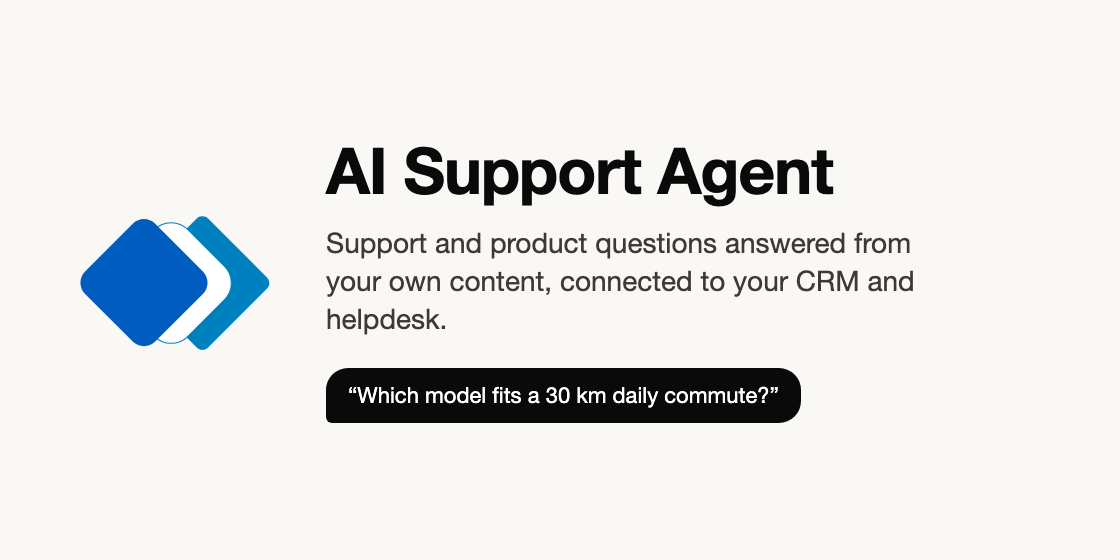
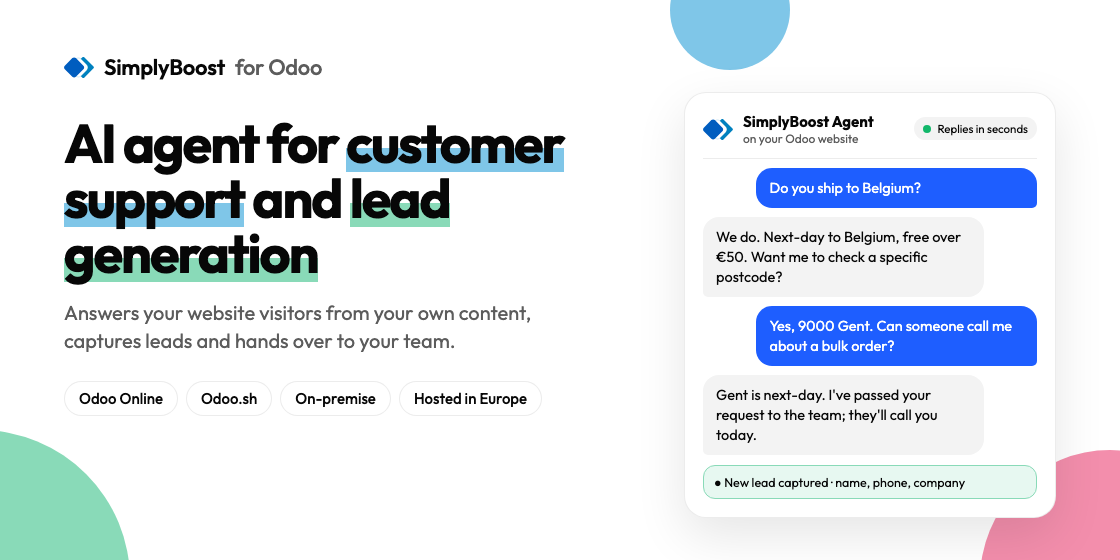
docs(integrations): Odoo Apps listing in the SimplyBoost voice, with the product video
Listing name "AI Agent: Support & Leads", a summary that leads with "AI
chatbot", and a description page built from the website's message: the four
jobs, real screenshots, setup steps, integrations, an FAQ and the data sent.
The product overview video and setup tutorial are linked (YouTube links are
the only external links the store allows); new on-brand cover. 1.2.0.

diff --git a/website_simplyboost/static/description/index.html b/website_simplyboost/static/description/index.html
@@ -1,100 +1,162 @@
 <section class="container py-5">
     <div class="row align-items-center">
         <div class="col-lg-6">
-            <h2 class="font-weight-bold mb-3">AI Support Agent</h2>
-            <p class="lead mb-3">
-                Put an AI support agent and product specialist on your Odoo website. It answers customers
-                from your own documentation and product information, hands complex cases to your team, and
-                works with the CRM and helpdesk you already use.
+            <p class="text-uppercase font-weight-bold mb-3" style="color: #5c5c5c; font-size: 13px;">AI chatbot for your Odoo website</p>
+            <h2 class="font-weight-bold mb-4" style="color: #070707; font-size: 40px;">
+                AI agent for <span style="border-bottom: 8px solid #7FC6E8;">customer support</span>
+                and <span style="border-bottom: 8px solid #89DAB8;">lead generation</span>
+            </h2>
+            <p class="lead mb-4" style="color: #5c5c5c;">
+                SimplyBoost is an AI agent that answers customer questions from your own content and captures leads.
+                This app puts it on every page of your Odoo website in two minutes, with no code.
             </p>
             <p class="mb-0">
-                The agent runs on <strong>SimplyBoost</strong>, an external service: you need a SimplyBoost
-                account with an agent set up there. This app adds that agent to the pages of your Odoo website.
+                <span class="badge badge-pill border mr-1 mb-2" style="color: #070707; font-size: 14px; padding: 8px 14px;">Odoo Online</span>
+                <span class="badge badge-pill border mr-1 mb-2" style="color: #070707; font-size: 14px; padding: 8px 14px;">Odoo.sh</span>
+                <span class="badge badge-pill border mr-1 mb-2" style="color: #070707; font-size: 14px; padding: 8px 14px;">On-premise</span>
+                <span class="badge badge-pill border mr-1 mb-2" style="color: #070707; font-size: 14px; padding: 8px 14px;">Odoo 18, 19 and 20</span>
+                <span class="badge badge-pill border mr-1 mb-2" style="color: #070707; font-size: 14px; padding: 8px 14px;">Hosted in Europe</span>
             </p>
         </div>
         <div class="col-lg-6 text-center mt-4 mt-lg-0">
-            <img src="screenshot_chat.png" class="img-fluid border rounded" alt="The agent answering a visitor on an Odoo website"/>
+            <a href="https://www.youtube.com/watch?v=HPHn23mbyUw">
+                <img src="video_overview.png" class="img-fluid rounded shadow" alt="Watch the SimplyBoost AI agent product overview video on YouTube (34 seconds)"/>
+            </a>
+            <p class="mt-2 mb-0" style="color: #5c5c5c; font-size: 14px;">
+                <a href="https://www.youtube.com/watch?v=HPHn23mbyUw" style="color: #1E5EFF;">Watch the product overview</a> (34 seconds)
+            </p>
         </div>
     </div>
 </section>
 
 <section class="container py-4">
-    <h3 class="font-weight-bold mb-2">What this app does in Odoo</h3>
-    <ul class="mb-3">
-        <li>Adds an <em>AI Support Agent</em> section to Website, Configuration, Settings.</li>
-        <li>Loads your agent on every page of the website you set it for. Each Odoo website can have its own agent, or none.</li>
-        <li>Loads nothing until you have pasted a Bot ID and agreed to send visitors' chat messages to SimplyBoost.</li>
-    </ul>
-    <img src="screenshot_settings.png" class="img-fluid border rounded" alt="AI Support Agent settings in Odoo"/>
-</section>
-
-<section class="container py-4">
-    <h3 class="font-weight-bold mb-2">What the SimplyBoost agent does</h3>
-    <p class="text-muted mb-4">Set up in your SimplyBoost account, not in Odoo.</p>
+    <h3 class="font-weight-bold mb-2" style="color: #070707;">What the agent takes off your plate</h3>
+    <p class="mb-4" style="color: #5c5c5c;">Four jobs it handles from the first day.</p>
     <div class="row">
-        <div class="col-md-6 mb-4">
-            <h5 class="font-weight-bold">Customer support</h5>
-            <p>Answers from your manuals, FAQs, policies and website pages, in the language the customer writes in.
-                When it cannot help or the customer asks for a person, your team is alerted with the conversation.</p>
+        <div class="col-md-6 col-lg-3 mb-4">
+            <div class="border rounded p-4 h-100" style="border-color: #e6e6e6;">
+                <h5 class="font-weight-bold" style="color: #070707; border-bottom: 4px solid #7FC6E8; padding-bottom: 6px;">Answers in seconds</h5>
+                <p class="mb-0" style="color: #5c5c5c;">From your own website pages, PDFs, Word files and Q&amp;A, in the language the customer writes in.</p>
+            </div>
         </div>
-        <div class="col-md-6 mb-4">
-            <h5 class="font-weight-bold">Product specialist</h5>
-            <p>Answers questions about your products from your specifications, price lists and catalogues,
-                compares options and asks interested visitors for their contact details with a short form.</p>
+        <div class="col-md-6 col-lg-3 mb-4">
+            <div class="border rounded p-4 h-100" style="border-color: #e6e6e6;">
+                <h5 class="font-weight-bold" style="color: #070707; border-bottom: 4px solid #89DAB8; padding-bottom: 6px;">Captures the lead</h5>
+                <p class="mb-0" style="color: #5c5c5c;">Asks for name, email, phone or company in the chat, scores the lead from 0 to 100 and emails you when it comes in.</p>
+            </div>
         </div>
-        <div class="col-md-6 mb-4">
-            <h5 class="font-weight-bold">Works with your CRM and helpdesk</h5>
-            <p>Ready-made actions for HubSpot, Salesforce, Zendesk, Slack, Stripe and Google Sheets. Hand-offs can
-                open a ticket in Zendesk, Freshdesk or Gorgias. Custom actions connect the agent to any CRM or
-                system that has an API.</p>
+        <div class="col-md-6 col-lg-3 mb-4">
+            <div class="border rounded p-4 h-100" style="border-color: #e6e6e6;">
+                <h5 class="font-weight-bold" style="color: #070707; border-bottom: 4px solid #F38EAC; padding-bottom: 6px;">Books the appointment</h5>
+                <p class="mb-0" style="color: #5c5c5c;">Finds a free slot in your Google Calendar, creates the event and sends the confirmation, right in the chat.</p>
+            </div>
         </div>
-        <div class="col-md-6 mb-4">
-            <h5 class="font-weight-bold">One agent, every channel</h5>
-            <p>The same agent can also answer on WhatsApp, Instagram and Facebook Messenger, and book meetings in
-                Google Calendar.</p>
+        <div class="col-md-6 col-lg-3 mb-4">
+            <div class="border rounded p-4 h-100" style="border-color: #e6e6e6;">
+                <h5 class="font-weight-bold" style="color: #070707; border-bottom: 4px solid #070707; padding-bottom: 6px;">Covers the hours you are off</h5>
+                <p class="mb-0" style="color: #5c5c5c;">Nights, weekends and holidays. When a customer needs a person, your team gets the conversation.</p>
+            </div>
         </div>
     </div>
 </section>
 
 <section class="container py-4">
-    <h3 class="font-weight-bold mb-3">Set up in three steps</h3>
-    <ol class="mb-0">
-        <li class="mb-2">Install this app.</li>
-        <li class="mb-2">Copy your agent's Bot ID from the SimplyBoost dashboard (Channels, Website).</li>
-        <li class="mb-2">In Odoo, open Website, Configuration, Settings. Under <em>AI Support Agent</em>, paste the Bot ID,
-            tick <em>Send visitors' chat messages to SimplyBoost</em> and save.</li>
-    </ol>
+    <div class="row align-items-center">
+        <div class="col-lg-7 mb-4 mb-lg-0">
+            <img src="screenshot_chat.png" class="img-fluid border rounded shadow-sm" alt="SimplyBoost AI agent answering a visitor in the chat on an Odoo website"/>
+        </div>
+        <div class="col-lg-5">
+            <h3 class="font-weight-bold mb-3" style="color: #070707;">Your answers, your team, one chat</h3>
+            <ul class="pl-3 mb-0" style="color: #5c5c5c;">
+                <li class="mb-2"><strong style="color: #070707;">Grounded in your content.</strong> It answers from the sources you add. When it cannot find a good answer, it says so and offers your team instead of guessing.</li>
+                <li class="mb-2"><strong style="color: #070707;">Hand-over to a person.</strong> On request, or when a customer is unhappy, the conversation goes to your team with an alert, and your team replies from the SimplyBoost inbox.</li>
+                <li class="mb-2"><strong style="color: #070707;">Missing answers.</strong> Questions it could not answer are listed for you. Add the answer once and it uses it from then on.</li>
+                <li class="mb-0"><strong style="color: #070707;">One agent, every channel.</strong> The same agent can also answer on WhatsApp, Instagram and Facebook Messenger, with every conversation in one inbox.</li>
+            </ul>
+        </div>
+    </div>
 </section>
 
 <section class="container py-4">
-    <h3 class="font-weight-bold mb-3">Data sent to SimplyBoost</h3>
-    <p>
-        Nothing is sent until you set a Bot ID and tick the consent box. From then on, on the pages of that
-        Odoo website, the chat sends SimplyBoost:
+    <h3 class="font-weight-bold mb-2" style="color: #070707;">Live on your Odoo website in three steps</h3>
+    <p class="mb-4" style="color: #5c5c5c;">No developer and no flow builder. Most teams have their agent answering real customers the same day.</p>
+    <div class="row">
+        <div class="col-md-4 mb-4">
+            <p class="font-weight-bold mb-1" style="color: #1E5EFF; font-size: 28px;">1</p>
+            <h5 class="font-weight-bold" style="color: #070707;">Add what you know</h5>
+            <p style="color: #5c5c5c;">In SimplyBoost, paste your website or sitemap, upload PDFs and Word files, or type Q&amp;A. Each source is ready in about a minute.</p>
+        </div>
+        <div class="col-md-4 mb-4">
+            <p class="font-weight-bold mb-1" style="color: #1E5EFF; font-size: 28px;">2</p>
+            <h5 class="font-weight-bold" style="color: #070707;">Install this app</h5>
+            <p style="color: #5c5c5c;">In Odoo, open Website, Configuration, Settings. Under <em>AI Support Agent</em>, paste your Bot ID (SimplyBoost dashboard: Channels, Website) and tick the consent box.</p>
+        </div>
+        <div class="col-md-4 mb-4">
+            <p class="font-weight-bold mb-1" style="color: #1E5EFF; font-size: 28px;">3</p>
+            <h5 class="font-weight-bold" style="color: #070707;">Save, and it is live</h5>
+            <p style="color: #5c5c5c;">The chat appears on every page of that website. Each Odoo website can have its own agent, or none.</p>
+        </div>
+    </div>
+    <img src="screenshot_settings.png" class="img-fluid border rounded shadow-sm" alt="AI Support Agent settings in Odoo Website settings: Bot ID and consent"/>
+    <p class="mt-3 mb-0" style="color: #5c5c5c;">
+        New to SimplyBoost? <a href="https://www.youtube.com/watch?v=m7GgiEv5n6o" style="color: #1E5EFF;">Watch: create your first AI agent in minutes</a> (3 minutes).
     </p>
-    <ul>
-        <li>what visitors type in the chat;</li>
-        <li>the contact details they enter in the chat's contact form, if they fill it in;</li>
-        <li>their ratings of the agent's replies;</li>
-        <li>their time zone, IP address and browser details, as with any website service.</li>
-    </ul>
-    <p class="mb-0">
-        The chat keeps the conversation in the visitor's browser so it continues across pages. This app does
-        not read or send your Odoo records (contacts, orders, invoices). SimplyBoost's privacy policy is
-        published on simplyboost.io under Privacy Policy.
-    </p>
 </section>
 
 <section class="container py-4">
-    <h3 class="font-weight-bold mb-3">Requirements</h3>
-    <ul class="mb-0">
-        <li>Odoo 18, 19 or 20 with the Website app: Odoo Online, Odoo.sh or self-hosted.</li>
-        <li>A SimplyBoost account with an agent.</li>
-        <li>If Odoo Live Chat is also active on the website, visitors see two chat buttons; use one of them.</li>
-    </ul>
+    <h3 class="font-weight-bold mb-4" style="color: #070707;">Works with the tools you already use</h3>
+    <div class="row">
+        <div class="col-md-6 mb-3">
+            <h5 class="font-weight-bold" style="color: #070707;">CRM and actions</h5>
+            <p style="color: #5c5c5c;">Ready-made actions for HubSpot, Salesforce, Zendesk, Slack, Stripe and Google Sheets. Custom actions connect the agent to any system with an API.</p>
+        </div>
+        <div class="col-md-6 mb-3">
+            <h5 class="font-weight-bold" style="color: #070707;">Helpdesk tickets</h5>
+            <p style="color: #5c5c5c;">A hand-over can open a ticket in Zendesk, Freshdesk or Gorgias. Leads export to CSV whenever you need them.</p>
+        </div>
+    </div>
 </section>
 
 <section class="container py-4">
-    <h3 class="font-weight-bold mb-3">Support</h3>
-    <p class="mb-0">Questions or problems: <a href="mailto:support@simplyboost.io">support@simplyboost.io</a></p>
+    <h3 class="font-weight-bold mb-4" style="color: #070707;">Frequently asked questions</h3>
+
+    <h5 class="font-weight-bold" style="color: #070707;">What is the SimplyBoost AI agent for Odoo?</h5>
+    <p class="mb-4" style="color: #5c5c5c;">It is an AI chatbot for your Odoo website that handles customer support and lead generation. It answers visitors from your own content, collects their contact details and hands conversations to your team. This free app connects your SimplyBoost agent to Odoo Website.</p>
+
+    <h5 class="font-weight-bold" style="color: #070707;">Does it work on Odoo Online?</h5>
+    <p class="mb-4" style="color: #5c5c5c;">Yes. The app contains no Python code, so it installs on Odoo Online as well as Odoo.sh and on-premise, for Odoo 18, 19 and 20 with the Website app.</p>
+
+    <h5 class="font-weight-bold" style="color: #070707;">Do I need a developer?</h5>
+    <p class="mb-4" style="color: #5c5c5c;">No. You paste a Bot ID in Website settings and tick one box. There is no code and no flow to build.</p>
+
+    <h5 class="font-weight-bold" style="color: #070707;">What does it cost?</h5>
+    <p class="mb-4" style="color: #5c5c5c;">The Odoo app is free. The agent needs a SimplyBoost subscription: flat monthly plans of €39, €89 or €169, with no per-seat fees. A 7-day trial includes 100 AI replies.</p>
+
+    <h5 class="font-weight-bold" style="color: #070707;">Which languages does it speak?</h5>
+    <p class="mb-4" style="color: #5c5c5c;">It replies in the language the customer writes in, from the same knowledge, so one agent serves all your markets.</p>
+
+    <h5 class="font-weight-bold" style="color: #070707;">Can it make up answers?</h5>
+    <p class="mb-4" style="color: #5c5c5c;">It answers from the sources you add. When the answer is not there, it says what it can help with, offers your team, and lists the question under Missing answers so you can fill the gap.</p>
+
+    <h5 class="font-weight-bold" style="color: #070707;">Does it replace Odoo Live Chat?</h5>
+    <p class="mb-0" style="color: #5c5c5c;">It can. If Odoo Live Chat stays active on the same website, visitors see two chat buttons, so most teams use one or the other.</p>
+</section>
+
+<section class="container py-4">
+    <div class="border rounded p-4" style="border-color: #e6e6e6;">
+        <h3 class="font-weight-bold mb-3" style="color: #070707;">External service and data sent to SimplyBoost</h3>
+        <p style="color: #5c5c5c;">This app requires a SimplyBoost account: the agent runs on SimplyBoost's servers, hosted in Europe. Nothing is loaded or sent until you set a Bot ID and tick the consent box. From then on, on the pages of that Odoo website, the chat sends SimplyBoost:</p>
+        <ul style="color: #5c5c5c;">
+            <li>what visitors type in the chat;</li>
+            <li>the contact details they enter in the chat's contact form, if they fill it in;</li>
+            <li>their ratings of the agent's replies;</li>
+            <li>their time zone, IP address and browser details, as with any website service.</li>
+        </ul>
+        <p class="mb-0" style="color: #5c5c5c;">The chat keeps the conversation in the visitor's browser so it continues across pages. This app does not read or send your Odoo records (contacts, orders, invoices). SimplyBoost's privacy policy is published on simplyboost.io under Privacy Policy.</p>
+    </div>
+</section>
+
+<section class="container py-4 text-center">
+    <h3 class="font-weight-bold mb-2" style="color: #070707;">Questions?</h3>
+    <p class="mb-0" style="color: #5c5c5c;">Write to <a href="mailto:support@simplyboost.io" style="color: #1E5EFF;">support@simplyboost.io</a>.</p>
 </section>

diff --git a/website_simplyboost/__manifest__.py b/website_simplyboost/__manifest__.py
@@ -1,8 +1,8 @@
 {
-    'name': 'AI Support Agent',
-    'version': '18.0.1.1.0',
-    'summary': 'AI support agent and product specialist on your website, connected to your CRM and helpdesk through SimplyBoost',
-    'description': 'Adds your SimplyBoost AI agent to your Odoo website. Requires a SimplyBoost account.',
+    'name': 'AI Agent: Support & Leads',
+    'version': '18.0.1.2.0',
+    'summary': 'AI chatbot for customer support and lead generation on your Odoo website. Answers from your own content, captures leads and hands over to your team.',
+    'description': 'SimplyBoost AI agent (AI chatbot) for customer support and lead generation on your Odoo website. Works on Odoo Online, Odoo.sh and on-premise. Requires a SimplyBoost account.',
     'category': 'Website/Website',
     'author': 'SimplyBoost',
     'license': 'LGPL-3',
